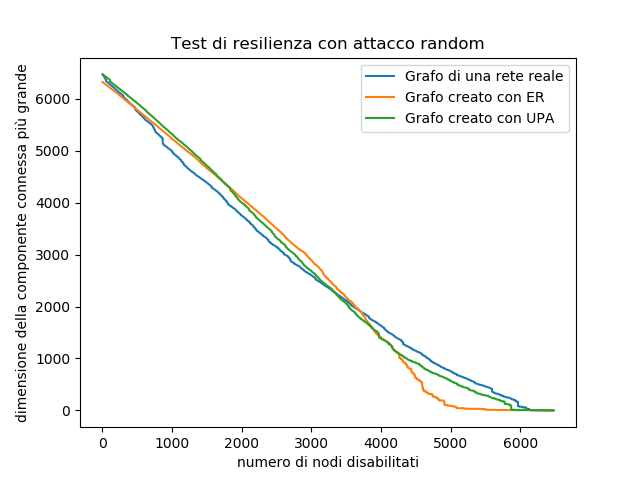
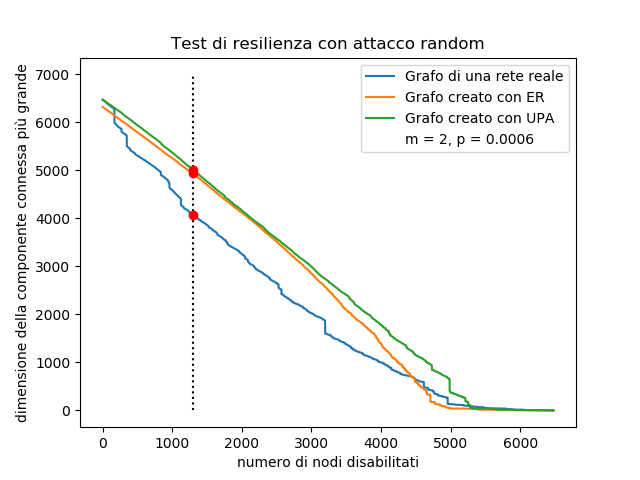
sistemati grafici, fatta intersezione, da finire legenda

diff --git a/Script/Plot.py b/Script/Plot.py
@@ -38,12 +38,20 @@ def maxGradeAttackerPlot(G):
 
 
 def plotRandomAttack(txt, ER, UPA):
-    txtDN, txtCCN = randomAttackerPlot(txt)
-    erDN, erCCN = randomAttackerPlot(ER)
-    upaDN, upaCCN = randomAttackerPlot(UPA)
-    plt.plot(txtCCN, txtDN, label='Grafo di una rete reale')
-    plt.plot(erCCN, erDN, label='Grafo creato con ER')
-    plt.plot(upaCCN, upaDN, label='Grafo creato con UPA')
+    txtCCN, txtDN = randomAttackerPlot(txt)
+    erCCN, erDN = randomAttackerPlot(ER)
+    upaCCN, upaDN = randomAttackerPlot(UPA)
+    print(txtCCN[1294])
+    print(erCCN[1294])
+    print(upaCCN[1294])
+    plt.plot(txtDN, txtCCN, label='Grafo di una rete reale')
+    plt.plot(erDN, erCCN, label='Grafo creato con ER')
+    plt.plot(upaDN, upaCCN, label='Grafo creato con UPA')
+    plt.plot([0, 1], [0, 1], label='m = 2, p = 0.0006', color='w')
+    plt.plot([1295, 1295], [0, 7000], color='k', linestyle=':')
+    plt.plot(txtDN[1294], txtCCN[1294], 'ro', label='dimensione componente connessa più grande dopo aver rimosso il 20% dei nodi')
+    plt.plot(erDN[1294], erCCN[1294], 'ro')
+    plt.plot(upaDN[1294], upaCCN[1294], 'ro')
     plt.legend()
     plt.xlabel('numero di nodi disabilitati')
     plt.ylabel('dimensione della componente connessa più grande')
@@ -53,13 +61,14 @@ def plotRandomAttack(txt, ER, UPA):
 
 
 def plotMaxGradeAttack(txt, ER, UPA):
-    txtDN, txtCCN = maxGradeAttackerPlot(txt)
-    erDN, erCCN = maxGradeAttackerPlot(ER)
-    upaDN, upaCCN = maxGradeAttackerPlot(UPA)
-    plt.plot(txtCCN, txtDN, label='Grafo di una rete reale')
-    plt.plot(erCCN, erDN, label='Grafo creato con ER')
-    plt.plot(upaCCN, upaDN, label='Grafo creato con UPA')
+    txtCCN, txtDN = maxGradeAttackerPlot(txt)
+    erCCN, erDN = maxGradeAttackerPlot(ER)
+    upaCCN, upaDN = maxGradeAttackerPlot(UPA)
+    plt.plot(txtDN, txtCCN, label='Grafo di una rete reale')
+    plt.plot(erDN, erCCN, label='Grafo creato con ER')
+    plt.plot(upaDN, upaCCN, label='Grafo creato con UPA')
     plt.plot([0, 1], [0, 1], label='m = 2, p = 0.0006', color='w')
+    plt.plot([1295, 1295], [0, 7000], color='k', linestyle=':')
     plt.legend()
     plt.xlabel('numero di nodi disabilitati')
     plt.ylabel('dimensione della componente connessa più grande')

diff --git a/Script/main.py b/Script/main.py
@@ -40,7 +40,7 @@ def main():
     # Disegna grafico a 3 linee per l'attacco random sui 3 grafi
     Plot.plotRandomAttack(txtGraph,erGraph,upaGraph)
     # Disegna un grafico a 3 linee dell'attacco intlligente sui 3 grafi
-    Plot.plotMaxGradeAttack(txtGraph, erGraph, upaGraph)
+    #Plot.plotMaxGradeAttack(txtGraph, erGraph, upaGraph)
 
 
 main()
